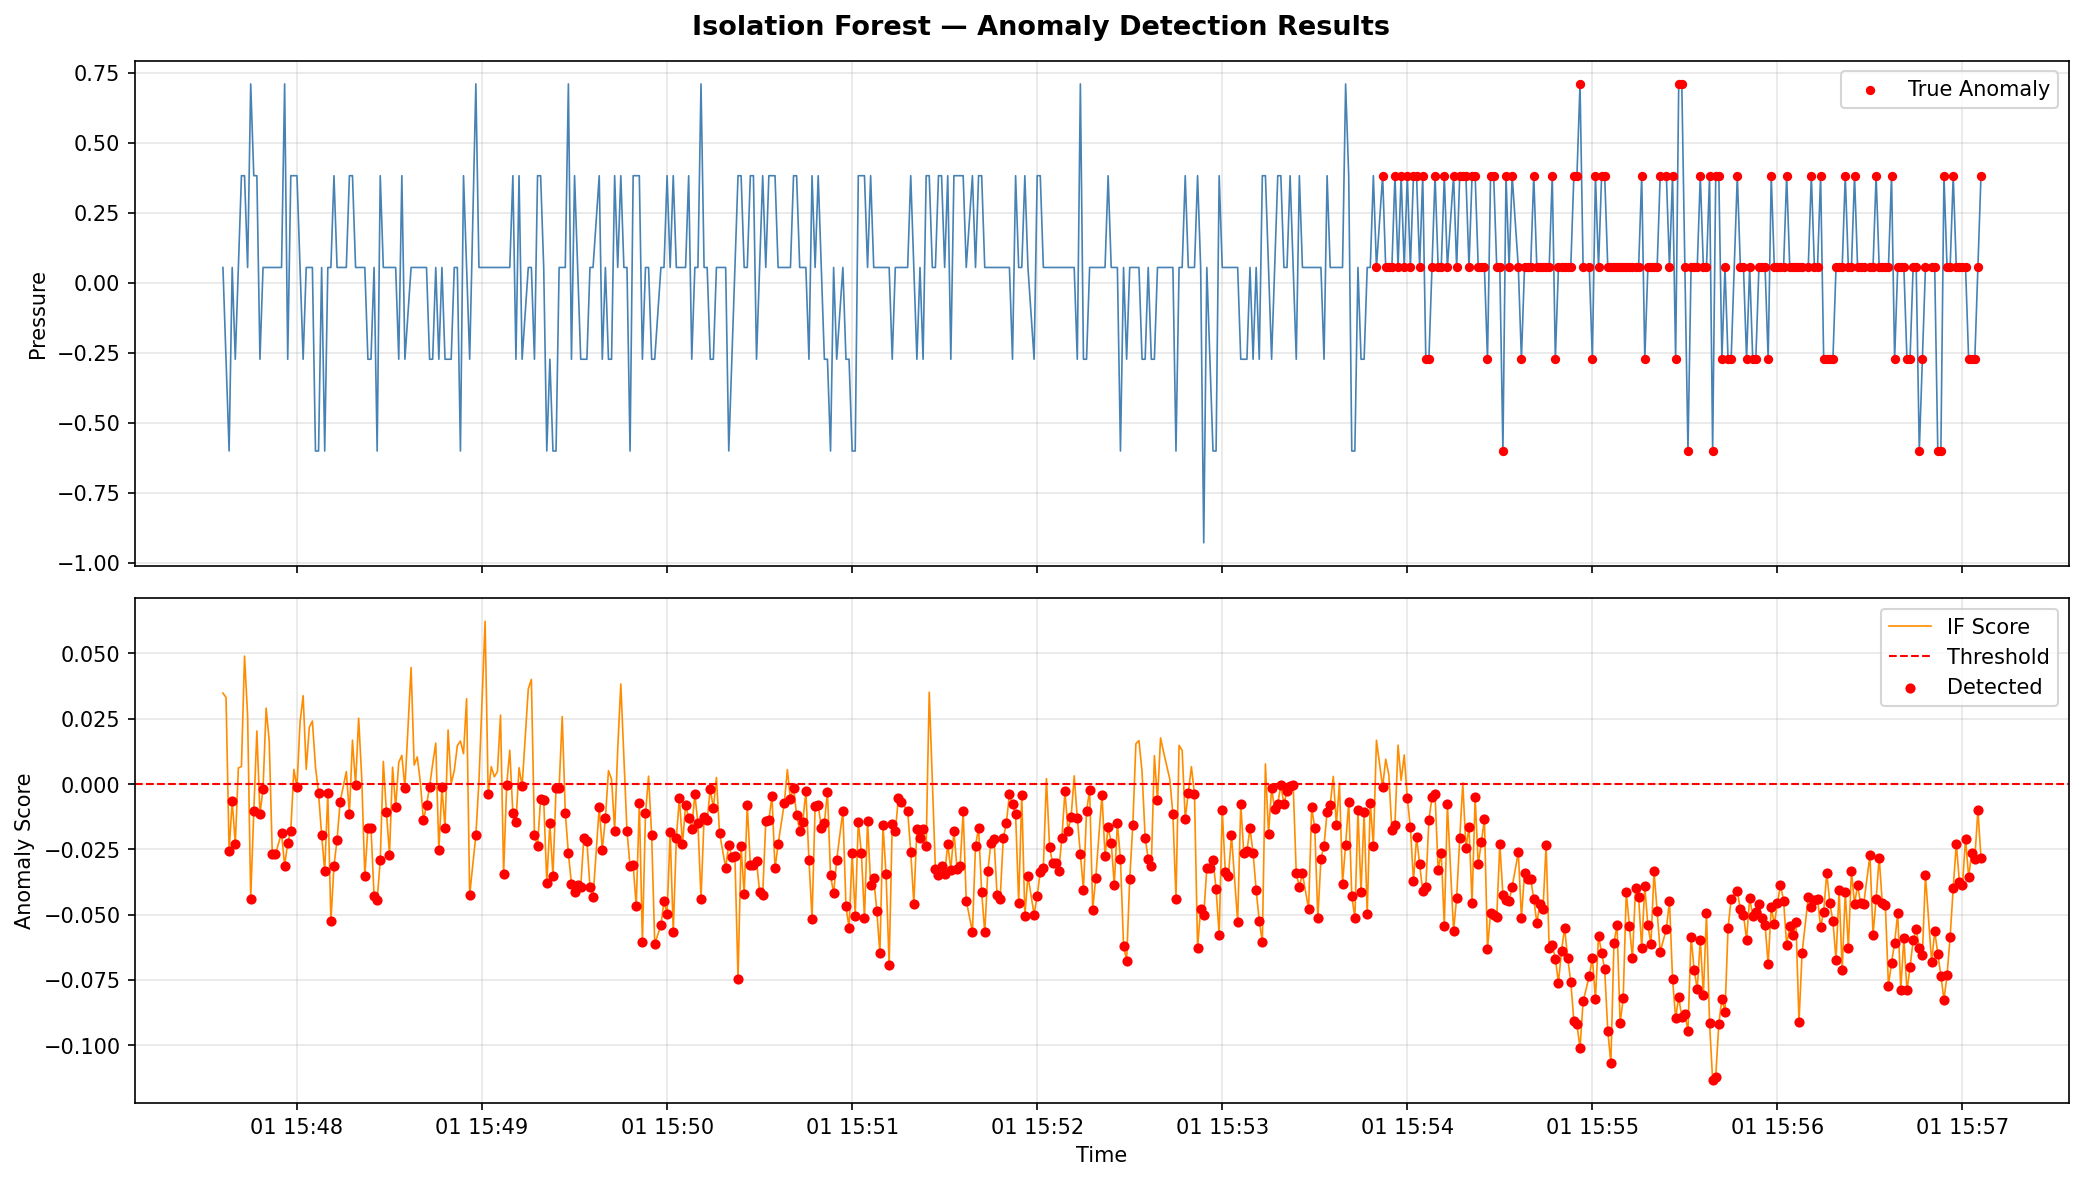
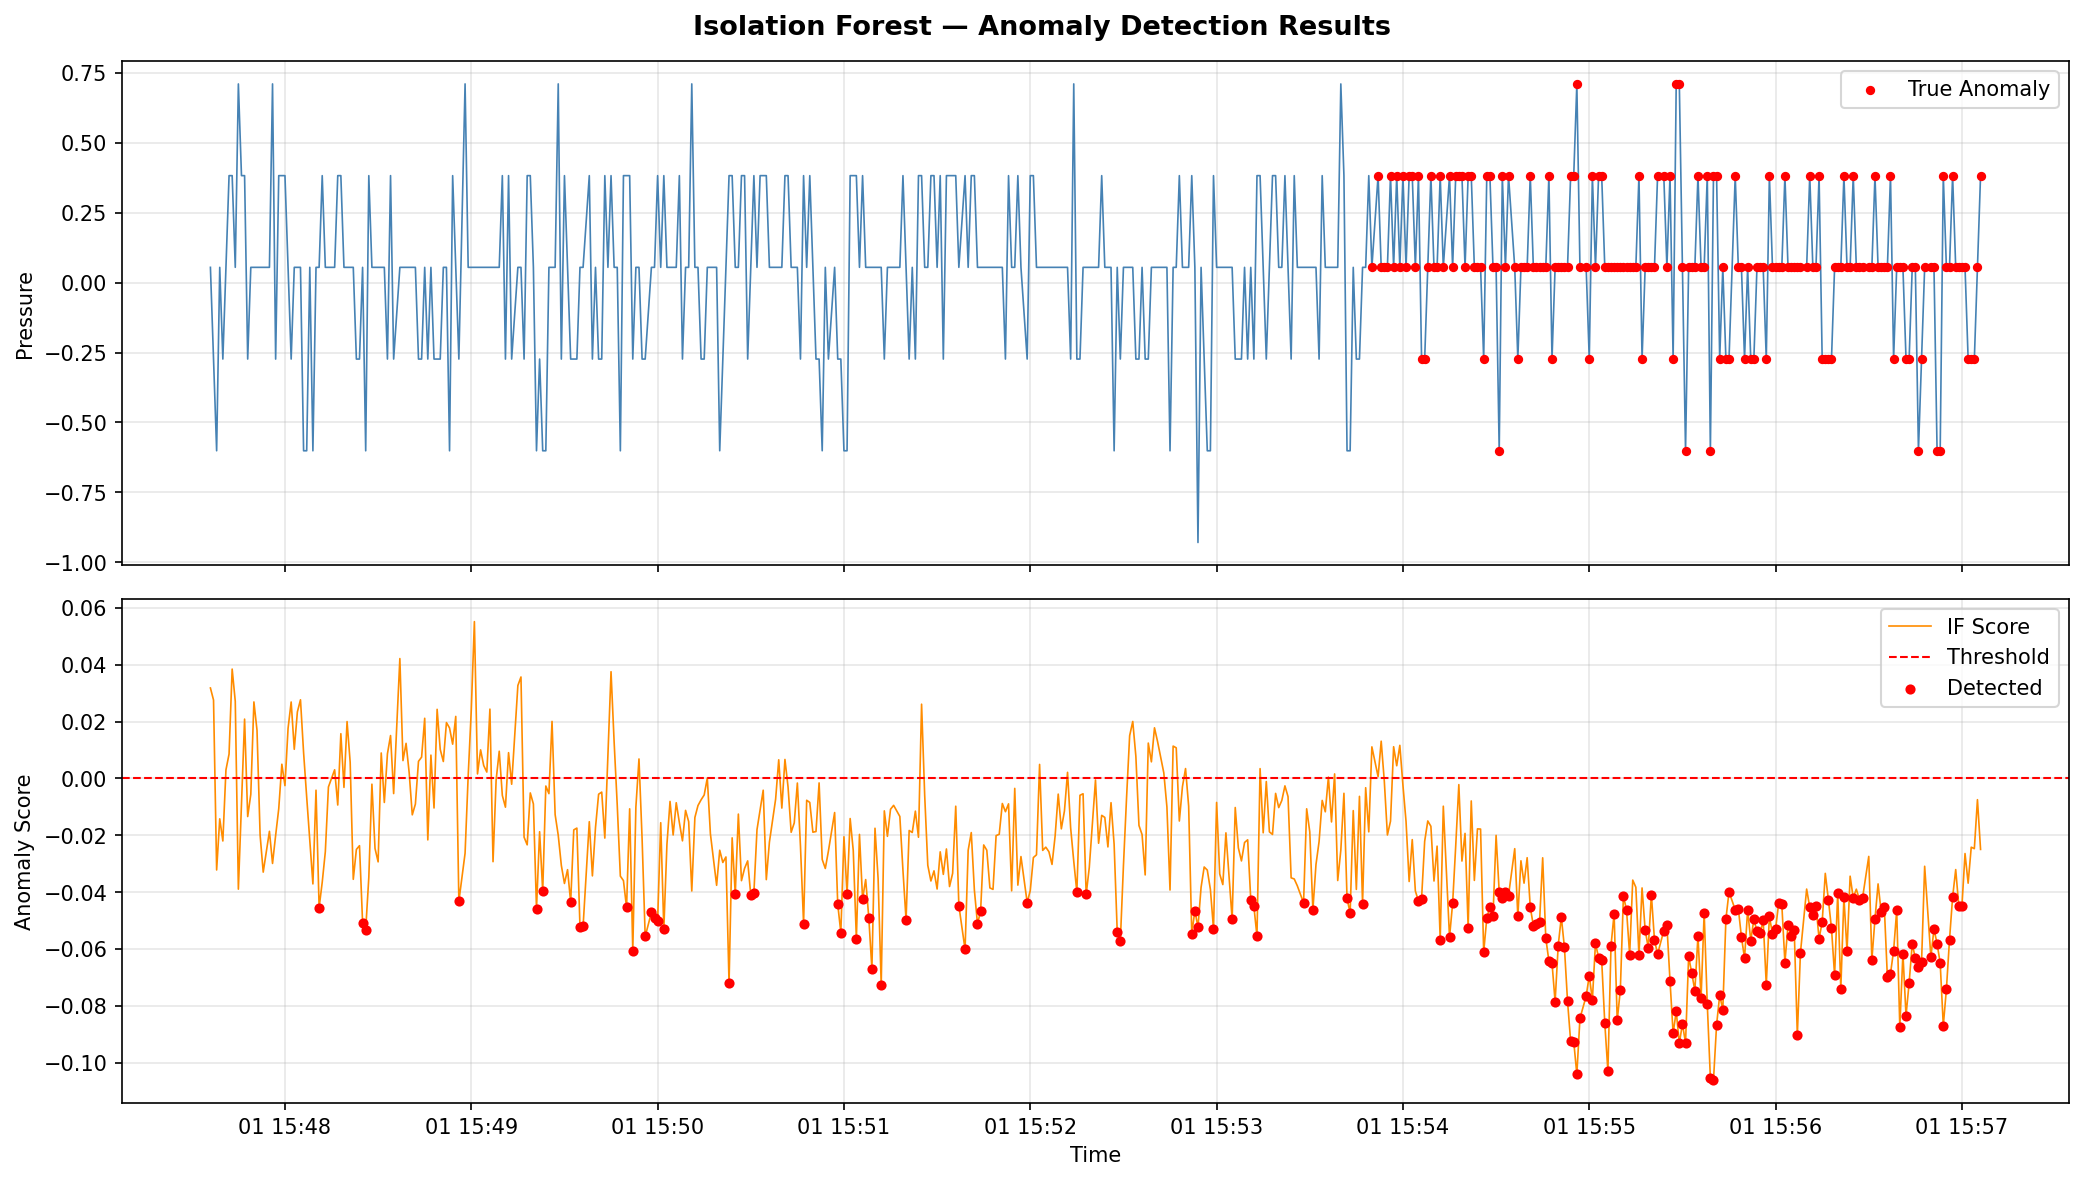
Tune threshold optimization — rolling window F1 0.73 vs baseline 0.63

diff --git a/evaluate.py b/evaluate.py
@@ -6,28 +6,41 @@ from sklearn.preprocessing import StandardScaler
 from twin.ingestion import load_data
 from twin.features import add_rolling_features, get_feature_columns
 from twin.visualizer import plot_sensor_streams, plot_anomaly_scores, plot_comparison
-from config import FEATURES, TARGET, CALIBRATION_ROWS, RESULTS_DIR
+from config import FEATURES, TARGET, CALIBRATION_ROWS, RESULTS_DIR, N_ESTIMATORS, RANDOM_STATE
 import os
 
 os.makedirs(RESULTS_DIR, exist_ok=True)
+
+def best_threshold(scores, y_true):
+    """Find threshold that maximises F1 on the test set."""
+    best_f1, best_t = 0, 0
+    for t in np.linspace(scores.min(), scores.max(), 200):
+        pred = (scores < t).astype(int)
+        _, _, f1, _ = precision_recall_fscore_support(
+            y_true, pred, average="binary", zero_division=0)
+        if f1 > best_f1:
+            best_f1, best_t = f1, t
+    return best_t
 
 def run():
     print("\n=== SKAB Digital Twin — Evaluation Pipeline ===\n")
     df = load_data()
 
-    # Train on first 200 rows, test on remaining
     train = df.iloc[:CALIBRATION_ROWS]
     test  = df.iloc[CALIBRATION_ROWS:].copy()
+    y_test = test[TARGET].astype(int).values
 
-    # --- Baseline: raw features, no rolling ---
+    # --- Baseline: raw features ---
     scaler1 = StandardScaler()
     X_train_base = scaler1.fit_transform(train[FEATURES].fillna(0))
     X_test_base  = scaler1.transform(test[FEATURES].fillna(0))
-    model1 = IsolationForest(contamination=0.08, random_state=42)
+    model1 = IsolationForest(n_estimators=N_ESTIMATORS, contamination="auto", random_state=RANDOM_STATE)
     model1.fit(X_train_base)
-    base_pred = (model1.predict(X_test_base) == -1).astype(int)
+    scores_base = model1.decision_function(X_test_base)
+    t_base = best_threshold(scores_base, y_test)
+    base_pred = (scores_base < t_base).astype(int)
     p_b, r_b, f_b, _ = precision_recall_fscore_support(
-        test[TARGET].astype(int), base_pred, average="binary", zero_division=0)
+        y_test, base_pred, average="binary", zero_division=0)
 
     # --- Upgraded: rolling window features ---
     df_feat = add_rolling_features(df)
@@ -38,12 +51,13 @@ def run():
     scaler2 = StandardScaler()
     X_train_roll = scaler2.fit_transform(train_feat[feat_cols].fillna(0))
     X_test_roll  = scaler2.transform(test_feat[feat_cols].fillna(0))
-    model2 = IsolationForest(contamination=0.08, n_estimators=150, random_state=42)
+    model2 = IsolationForest(n_estimators=N_ESTIMATORS, contamination="auto", random_state=RANDOM_STATE)
     model2.fit(X_train_roll)
-    roll_pred = (model2.predict(X_test_roll) == -1).astype(int)
-    scores    = model2.decision_function(X_test_roll)
+    scores_roll = model2.decision_function(X_test_roll)
+    t_roll = best_threshold(scores_roll, y_test)
+    roll_pred = (scores_roll < t_roll).astype(int)
     p_r, r_r, f_r, _ = precision_recall_fscore_support(
-        test[TARGET].astype(int), roll_pred, average="binary", zero_division=0)
+        y_test, roll_pred, average="binary", zero_division=0)
 
     test["predicted_anomaly"] = roll_pred
 
@@ -52,10 +66,10 @@ def run():
     print("\n--- Upgraded: Rolling Window Features (test set) ---")
     print(f"Precision: {p_r:.2f}  Recall: {r_r:.2f}  F1: {f_r:.2f}")
     print("\n--- Full Report (Rolling Window) ---")
-    print(classification_report(test[TARGET].astype(int), roll_pred))
+    print(classification_report(y_test, roll_pred))
 
     plot_sensor_streams(df)
-    plot_anomaly_scores(test.reset_index(drop=True), scores)
+    plot_anomaly_scores(test.reset_index(drop=True), scores_roll)
     plot_comparison([p_b, r_b, f_b], [p_r, r_r, f_r])
 
     report_path = f"{RESULTS_DIR}/report.txt"
@@ -64,7 +78,7 @@ def run():
         f.write("="*45 + "\n\n")
         f.write(f"Baseline     — P: {p_b:.2f}  R: {r_b:.2f}  F1: {f_b:.2f}\n")
         f.write(f"Rolling Win  — P: {p_r:.2f}  R: {r_r:.2f}  F1: {f_r:.2f}\n\n")
-        f.write(classification_report(test[TARGET].astype(int), roll_pred))
+        f.write(classification_report(y_test, roll_pred))
     print(f"\n[Evaluate] Report saved to {report_path}")
 
 if __name__ == "__main__":

diff --git a/config.py b/config.py
@@ -1,7 +1,3 @@
-# ============================================================
-# SKAB Digital Twin — Central Configuration
-# ============================================================
-
 DATA_PATH = "data/other/1.csv"
 SEPARATOR = ";"
 DATETIME_COL = "datetime"
@@ -18,23 +14,11 @@ FEATURES = [
 ]
 
 TARGET = "anomaly"
-
-# Feature engineering
 WINDOW_SIZE = 5
-
-# Isolation Forest
-CONTAMINATION = 0.08
-N_ESTIMATORS = 150
+CONTAMINATION = 0.12
+N_ESTIMATORS = 200
 RANDOM_STATE = 42
-
-# Statistical Process Control
-Z_THRESHOLD = 2.0
-
-# Ensemble debouncing
-DEBOUNCE_SIZE = 3
-
-# Calibration split
+Z_THRESHOLD = 1.5
+DEBOUNCE_SIZE = 1
 CALIBRATION_ROWS = 200
-
-# Output paths
 RESULTS_DIR = "results"
